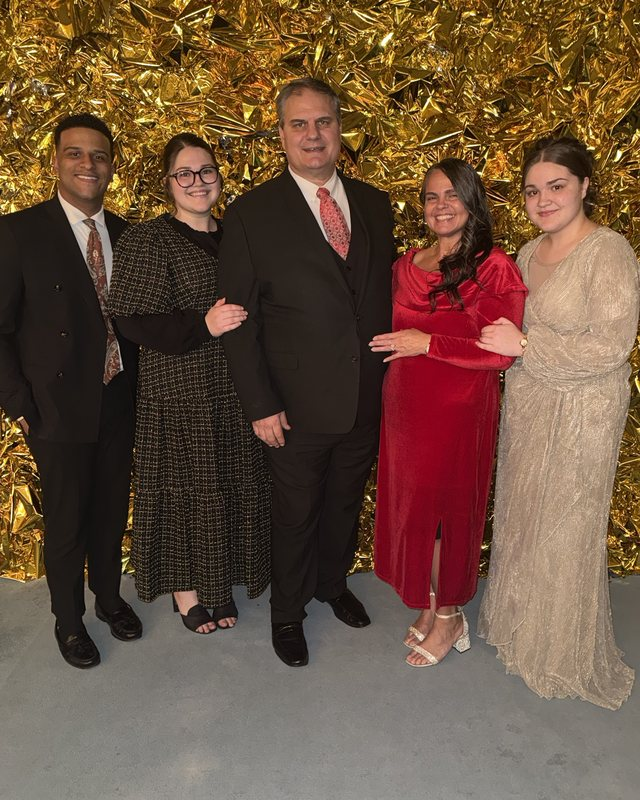
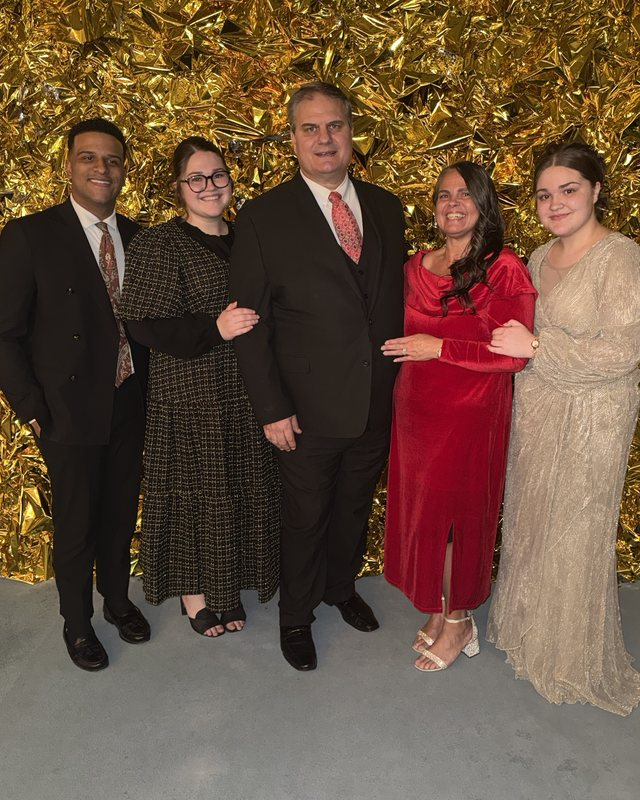
About page: swap in new family photos
Replaces the two gold-backdrop photos with the gold family photo and the
full red-white-and-blue family photo (everyone, including the grandson),
shown full width. Gallery now runs three across on desktop.

Claude-Session: https://claude.ai/code/session_01N6Xnmkd8PKbsDtwhySEcAr

diff --git a/assets/site.css b/assets/site.css
@@ -158,7 +158,10 @@ audio{width:100%;max-width:100%;height:40px;display:block}
 .sig{font-family:var(--f-display);font-weight:600;font-size:1.3rem;letter-spacing:.04em;color:var(--gold)}
 
 /* about gallery */
-.gallery{display:grid;grid-template-columns:repeat(2,minmax(0,1fr));gap:24px;margin-top:56px;max-width:760px}
+.gallery{display:grid;grid-template-columns:repeat(3,minmax(0,1fr));gap:24px;margin-top:56px;max-width:960px}
+.gallery .wide{grid-column:1/-1}
+.gallery .wide img{aspect-ratio:3/2}
+@media (max-width:640px){.gallery{grid-template-columns:repeat(2,minmax(0,1fr))}.gallery figure:nth-child(3){grid-column:1/-1}.gallery figure:nth-child(3) img{aspect-ratio:4/3;object-position:50% 25%}}
 .gallery figure{margin:0;display:grid;gap:10px}
 .gallery img{width:100%;height:auto;aspect-ratio:4/5;object-fit:cover;border-radius:2px;box-shadow:0 14px 28px -18px rgba(20,26,43,.55)}
 .gallery figcaption{font-family:var(--f-mono);font-size:.72rem;letter-spacing:.1em;text-transform:uppercase;color:var(--muted)}

diff --git a/about.html b/about.html
@@ -49,8 +49,8 @@
     <div class="gallery">
       <figure><img src="img/john-preaching.jpg" alt="Bro. John Kennon preaching" width="640" height="800" loading="lazy"><figcaption>Preaching the Word</figcaption></figure>
       <figure><img src="img/john-drums.jpg" alt="Bro. John Kennon playing drums" width="480" height="600" loading="lazy"><figcaption>On the drums</figcaption></figure>
-      <figure><img src="img/john-and-wife.jpg" alt="Bro. John Kennon and his wife" width="640" height="800" loading="lazy"><figcaption>With his wife</figcaption></figure>
       <figure><img src="img/family.jpg" alt="Bro. John Kennon with his wife and family" width="640" height="800" loading="lazy"><figcaption>With family</figcaption></figure>
+      <figure class="wide"><img src="img/family-all.jpg" alt="Bro. John Kennon with his wife, children, in-laws and grandson" width="1500" height="1000" loading="lazy"><figcaption>The whole family</figcaption></figure>
     </div>
   </div>
 </section>

diff --git a/tools/build_pages.py b/tools/build_pages.py
@@ -252,8 +252,8 @@ page("about.html", "About Bro. John Kennon",
     <div class="gallery">
       <figure><img src="img/john-preaching.jpg" alt="Bro. John Kennon preaching" width="640" height="800" loading="lazy"><figcaption>Preaching the Word</figcaption></figure>
       <figure><img src="img/john-drums.jpg" alt="Bro. John Kennon playing drums" width="480" height="600" loading="lazy"><figcaption>On the drums</figcaption></figure>
-      <figure><img src="img/john-and-wife.jpg" alt="Bro. John Kennon and his wife" width="640" height="800" loading="lazy"><figcaption>With his wife</figcaption></figure>
       <figure><img src="img/family.jpg" alt="Bro. John Kennon with his wife and family" width="640" height="800" loading="lazy"><figcaption>With family</figcaption></figure>
+      <figure class="wide"><img src="img/family-all.jpg" alt="Bro. John Kennon with his wife, children, in-laws and grandson" width="1500" height="1000" loading="lazy"><figcaption>The whole family</figcaption></figure>
     </div>
   </div>
 </section>
